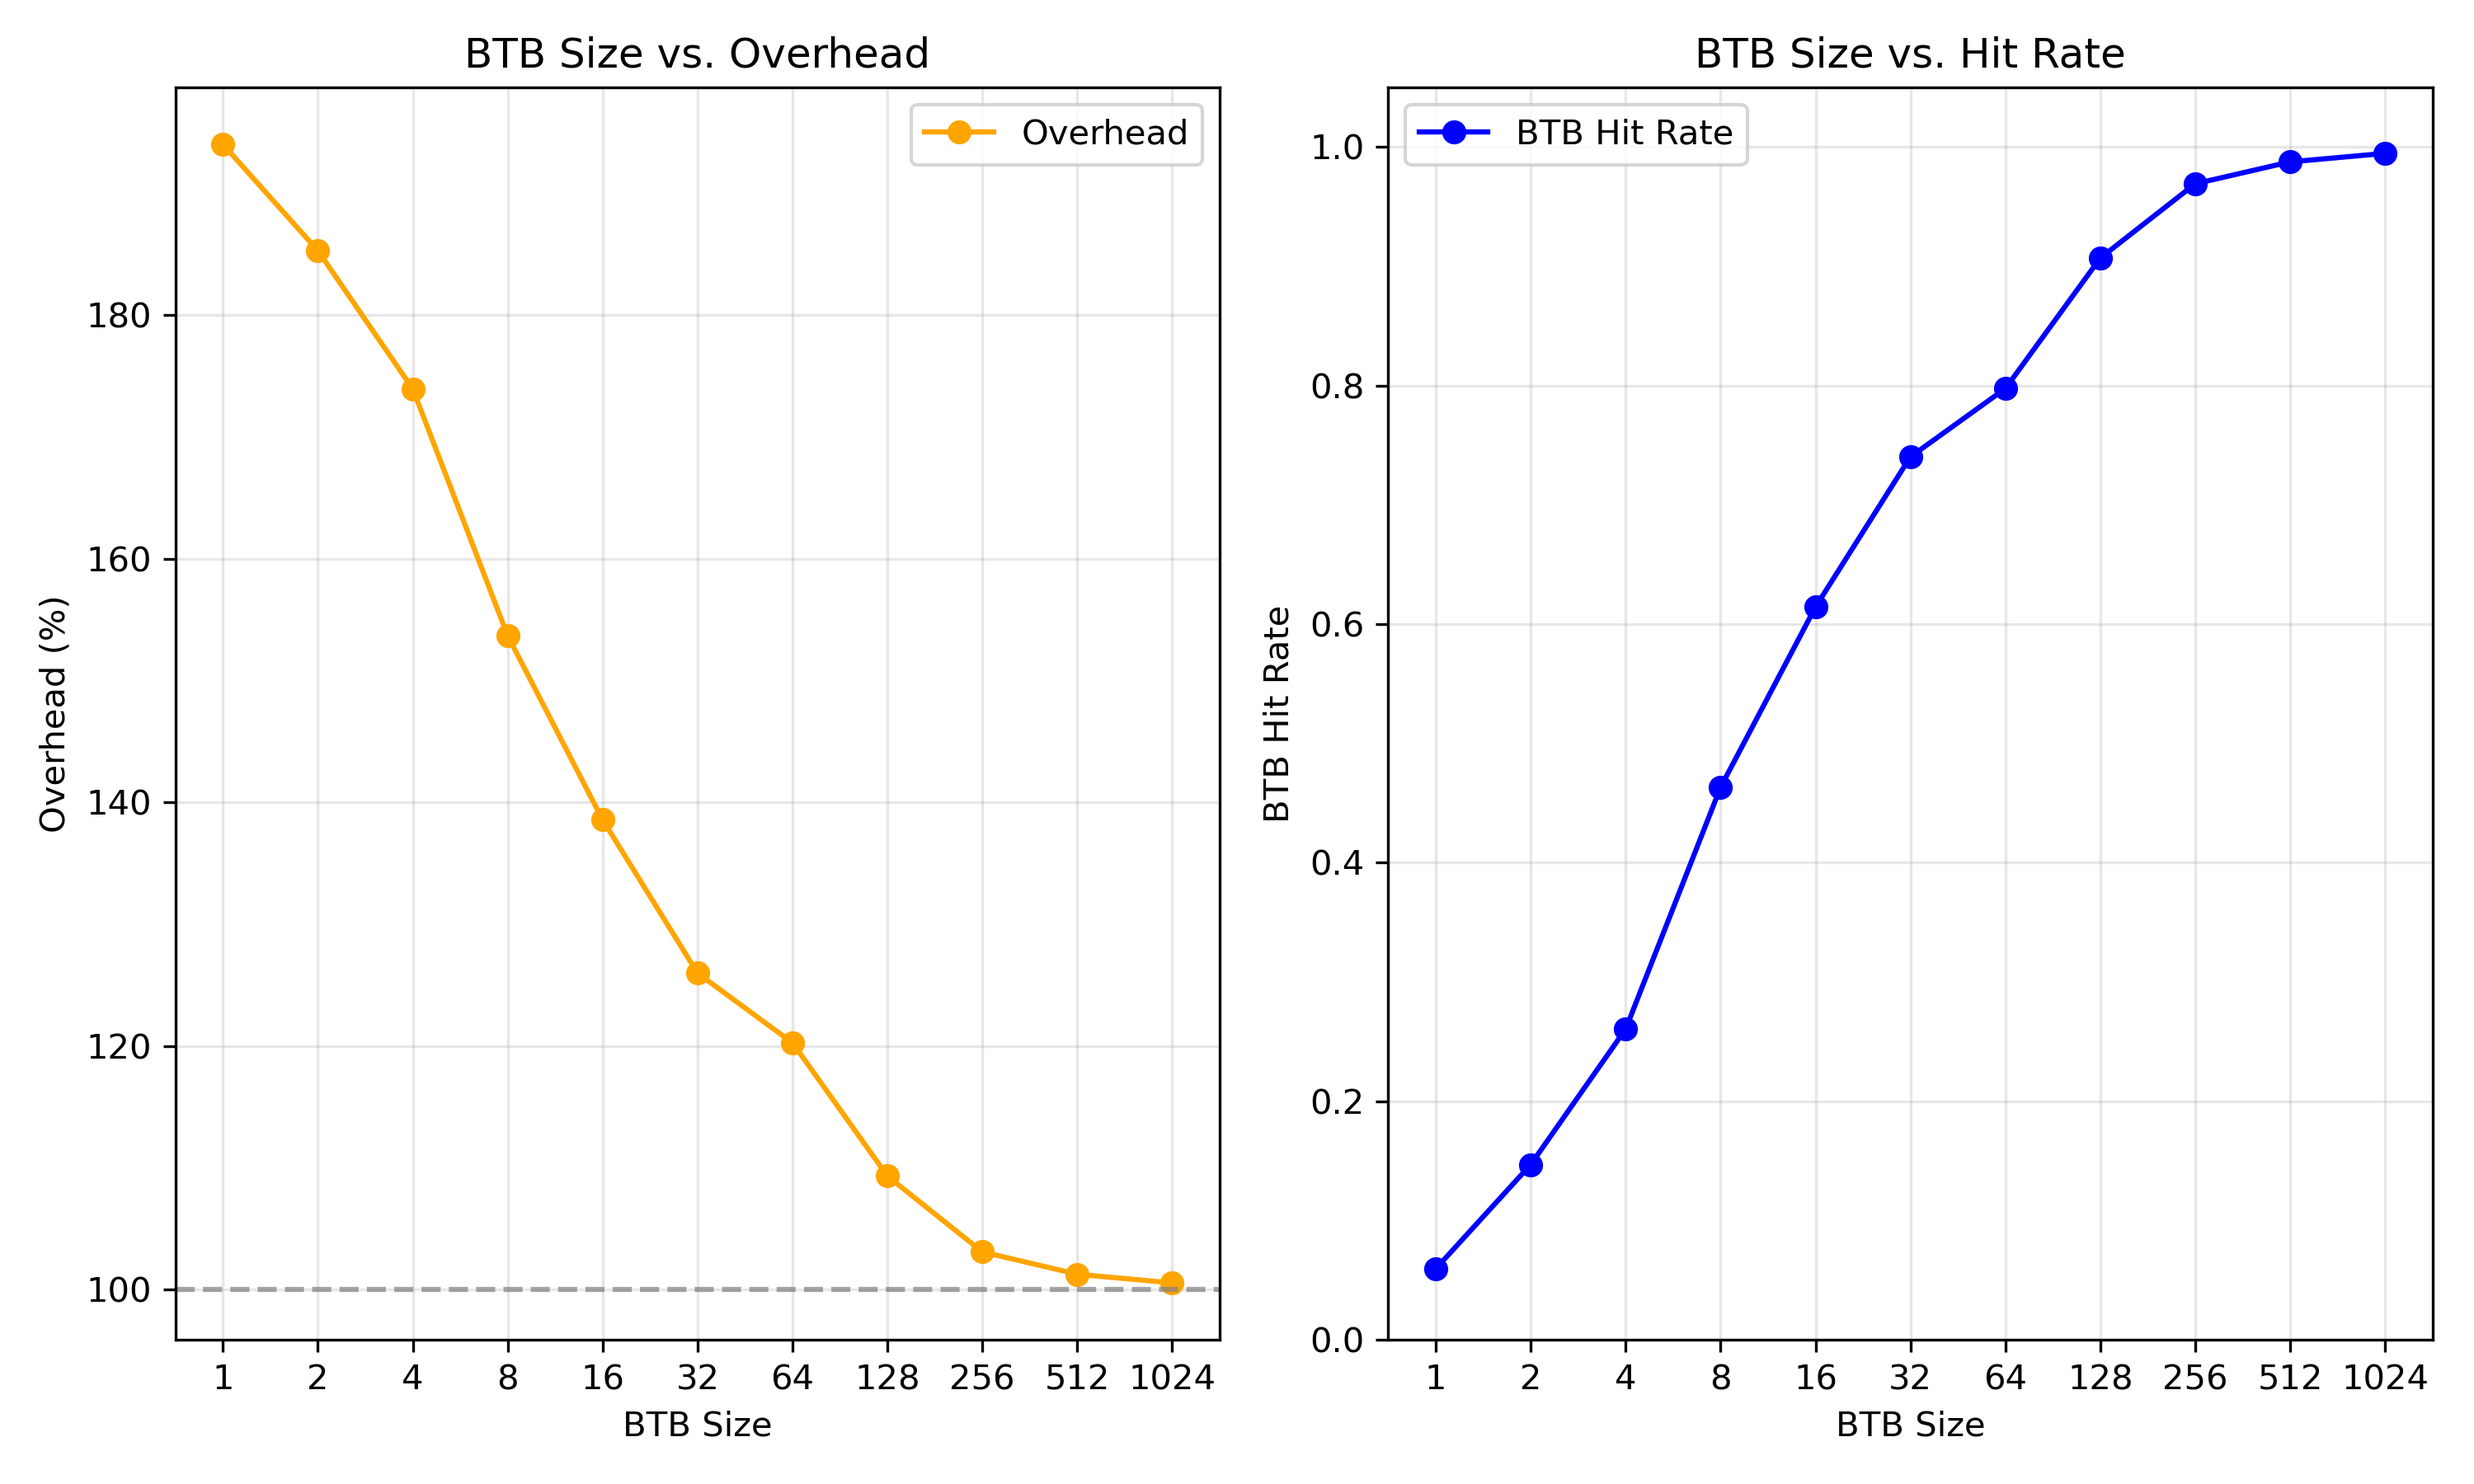
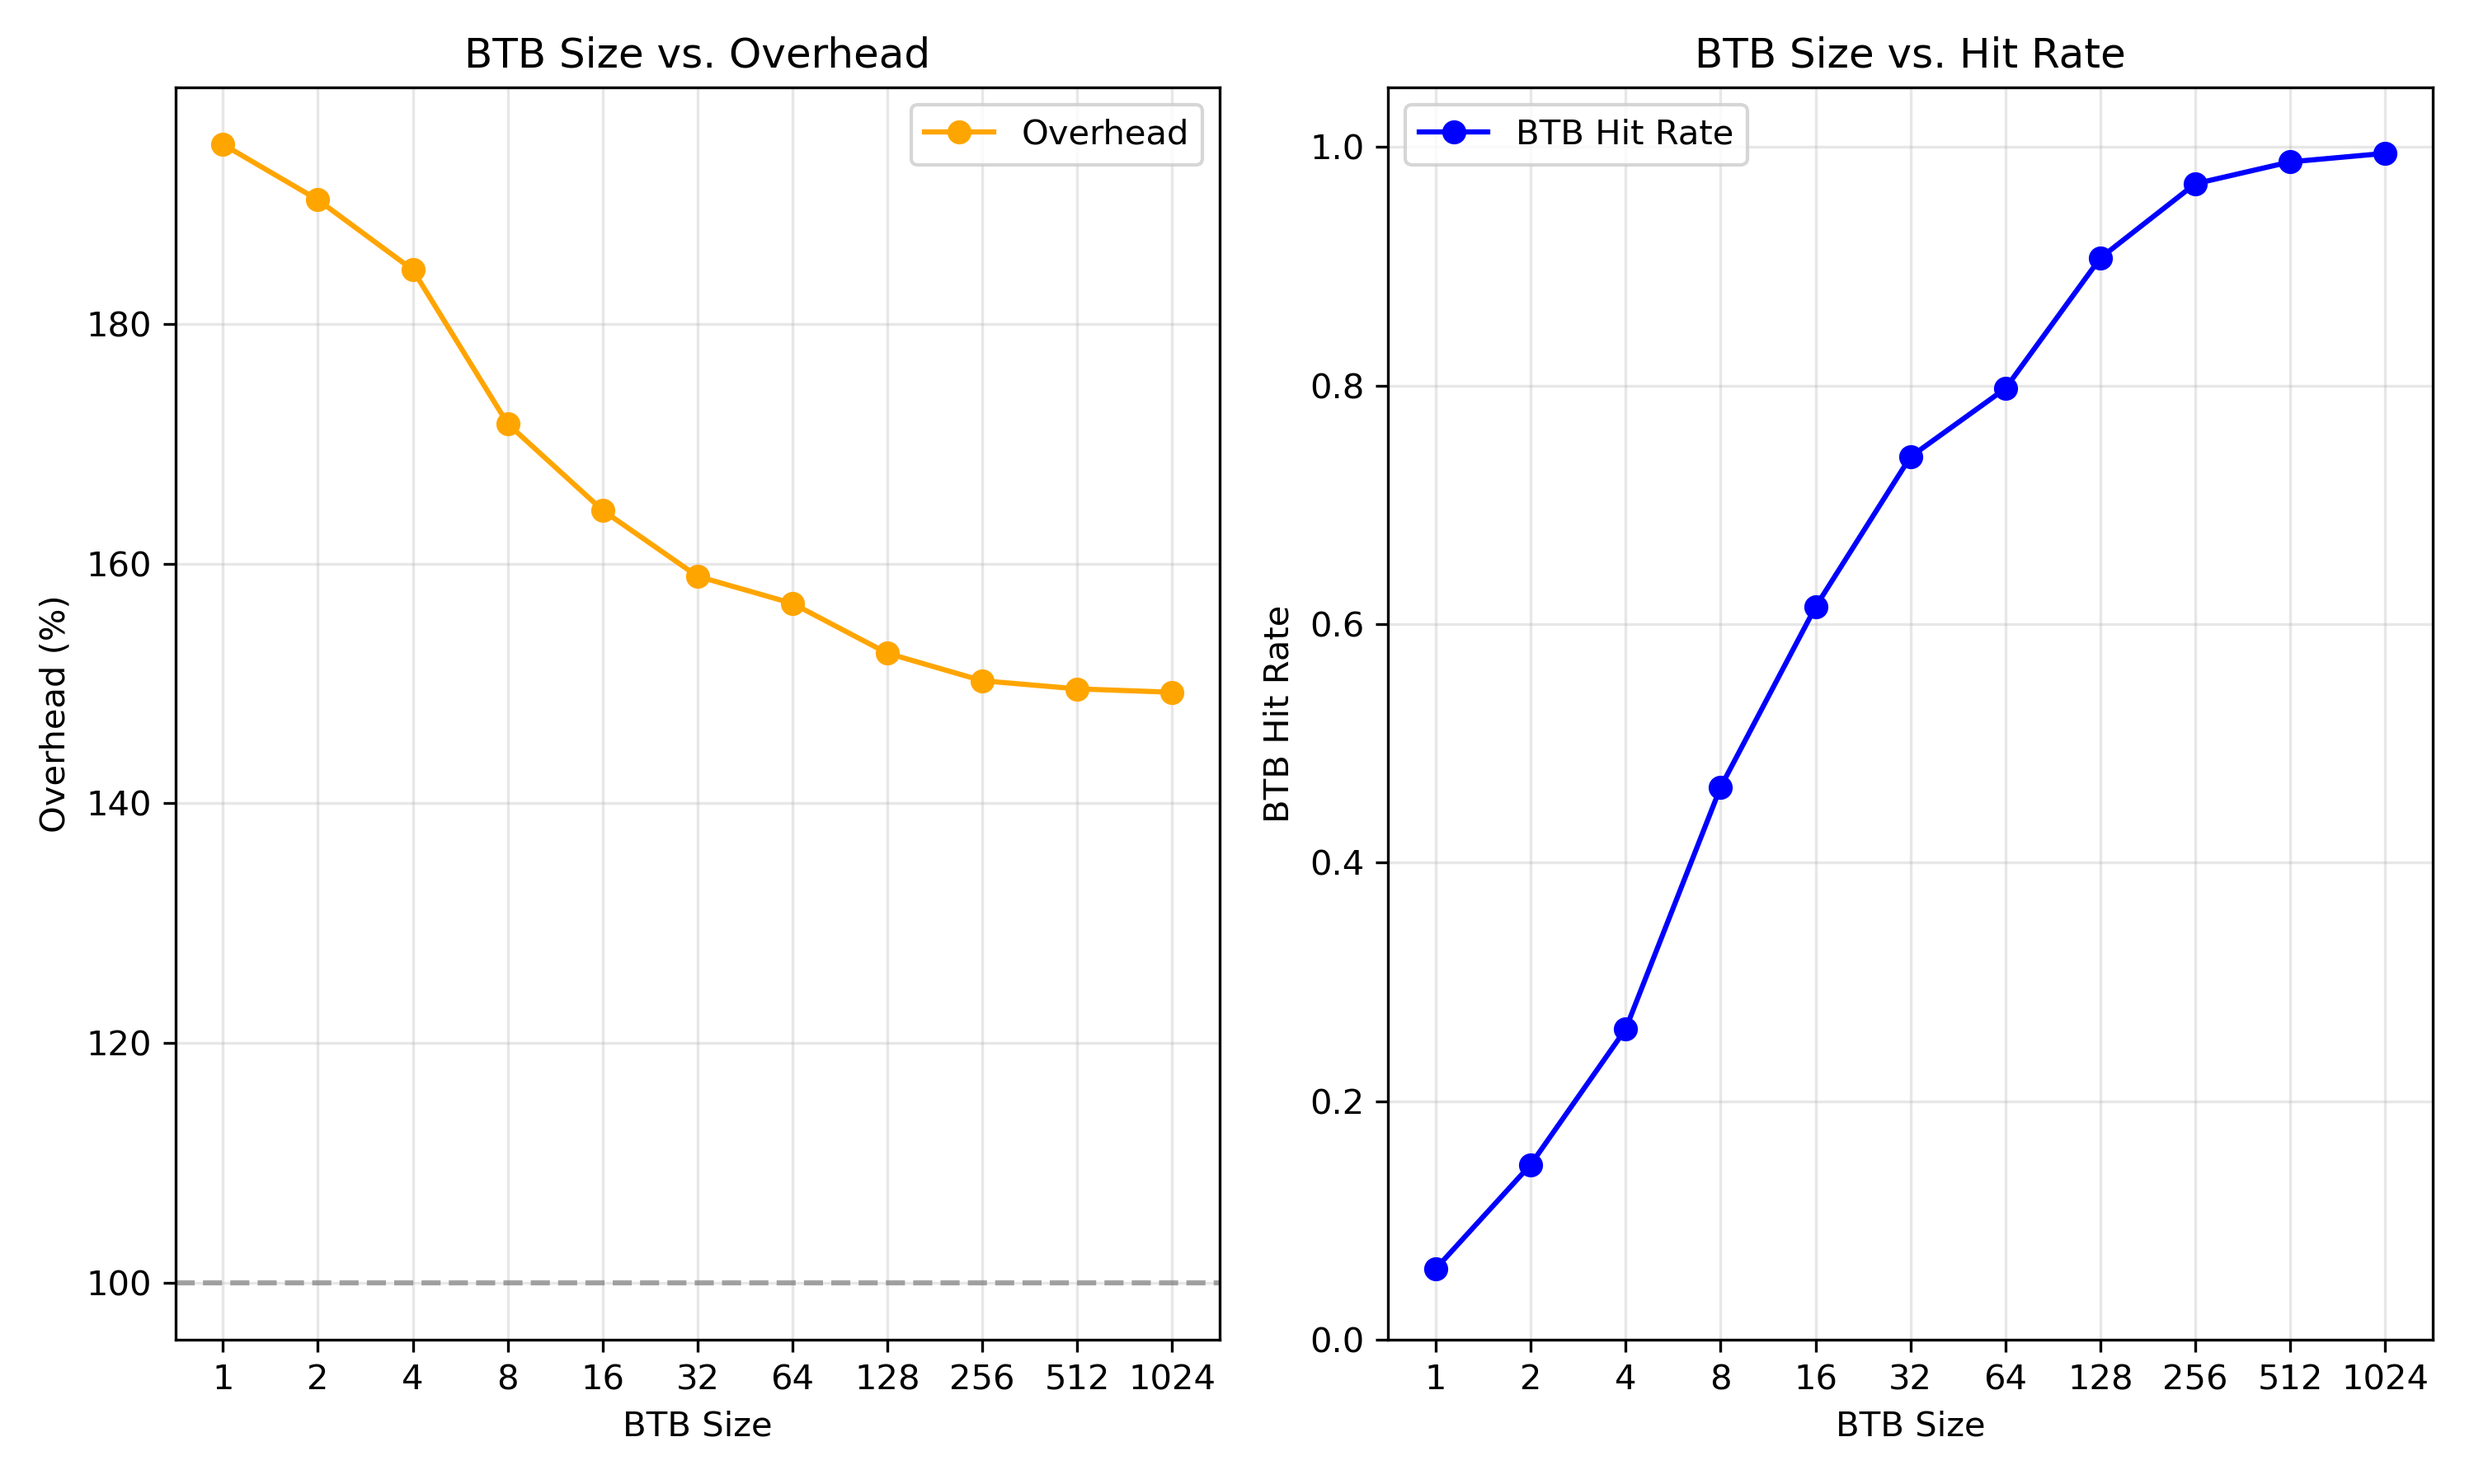
Fixed the accuracy calculation for branch prediction by adding appropriate overhead for predicting taken in cache but it was not taken. Added the overhead graph in the two layer branch prediction.

diff --git a/src/plot_btb_overheadTwoBit.py b/src/plot_btb_overheadTwoBit.py
@@ -5,16 +5,17 @@ import matplotlib.pyplot as plt
 import re
 import os
 
-# Some variables to be used
-SIMULATOR_PATH = "./branch_sim"
-TRACE_FILE_PATH = "../misc/block_profile"
-# Range of BTB sizes to test
-BTB_SIZES = [1, 2, 4, 8, 16, 32, 64, 128, 256, 512, 1024]
+# Path to your compiled C++ binary and the trace file
+SIMULATOR_PATH = "./branch_sim_TwoBit"  # Change this to your binary
+TRACE_FILE_PATH = "../misc/block_profile"  # Adjust if needed
 
+# Range of BTB sizes to test (same as before)
+BTB_SIZES = [1, 2, 4, 8, 16, 32, 64, 128, 256, 512, 1024]
 
 def run_simulation(btb_size):
     """Run the branch predictor with a specific BTB size and return the results."""
     try:
+        # Run the simulation with the given BTB size and trace file
         result = subprocess.run(
             [SIMULATOR_PATH, TRACE_FILE_PATH, str(btb_size)],
             capture_output=True,
@@ -40,9 +41,10 @@ def parse_results(output):
         mispredicted_btb_hits = int(re.search(r"BTB hits but direction mispredicted: (\d+)", output).group(1))
 
         # Assuming in this case that each btb miss will cause an additional miss
-        instructions_executed = total_instructions;
-        instructions_fetched = total_instructions + btb_misses + mispredicted_btb_hits;
+        instructions_executed = total_instructions
+        instructions_fetched = total_instructions + btb_misses + mispredicted_btb_hits
 
+        # Calculate overhead (instructions fetched / instructions executed)
         overhead = instructions_fetched / instructions_executed if instructions_executed > 0 else 0
 
         return {
@@ -76,7 +78,7 @@ def main():
 
     # Extract data for plotting
     btb_sizes = [r["btb_size"] for r in results]
-    overheads = [r["overhead"] * 100 for r in results] # convert to percentage
+    overheads = [r["overhead"] * 100 for r in results]  # Convert to percentage
     hit_rates = [r["btb_hit_rate"] for r in results]
 
     # Create the plot
@@ -85,16 +87,14 @@ def main():
     # Plot overhead vs BTB size
     plt.subplot(1, 2, 1)
     plt.plot(btb_sizes, overheads, 'o-', color='orange', label='Overhead')
-    plt.axhline(y=100, color='gray', linestyle='--', alpha=0.7) # 100% line
+    plt.axhline(y=100, color='gray', linestyle='--', alpha=0.7)  # 100% line
     plt.xlabel('BTB Size')
-    plt.ylabel('Overhead (%)') # Updated label
+    plt.ylabel('Overhead (%)')
     plt.title('BTB Size vs. Overhead')
     plt.grid(True, alpha=0.3)
     plt.xscale('log', base=2)  # Log scale makes it easier to see the pattern
     plt.xticks(btb_sizes, [str(s) for s in btb_sizes])
     plt.legend()
-
-    # For curiousity also plotting the relationship between hit rate and btb size
 
     # Plot hit rate vs BTB size
     plt.subplot(1, 2, 2)
@@ -108,8 +108,9 @@ def main():
     plt.ylim(0, 1.05)
     plt.legend()
 
+    # Layout and saving the plot
     plt.tight_layout()
-    plt.savefig('../misc/btb_size_vs_overhead.png', dpi=300)
+    plt.savefig('../misc/btb_size_vs_overheadTwoBit.png', dpi=300)
     print(f"Plot saved as 'btb_size_vs_overhead.png'")
     plt.show()
 

diff --git a/src/BranchPredictor.cpp b/src/BranchPredictor.cpp
@@ -12,7 +12,8 @@
 
 
 BranchPredictor::BranchPredictor(int btbSize)
-  : btb(new BranchTargetBuffer(btbSize)), btbHits(0), btbMisses(0), predictionHits(0), predictionMisses(0) {}
+  : btb(new BranchTargetBuffer(btbSize)), btbHits(0), btbMisses(0),
+  predictionHits(0), predictionMisses(0), btbHitButMispredicted(0){}
 
 
 BranchPredictor::~BranchPredictor() {
@@ -63,26 +64,36 @@ void BranchPredictor::simulateTrace(const std::string &traceFilename) {
 
         int predictedTarget = predictTargetAddress(instr.sourceAddr);
 
-        if (predictedTarget == -1){
-            btbMisses++;
-        } else {
+        bool inBTB = (predictedTarget != -1);
+
+        if (inBTB){
             btbHits++;
+        } else {
+            btbMisses++;
         }
 
         bool taken = predictTaken(instr.type, instr.direction);
 
         // Debugging
+        /*
         std::cout << "Debug line "  << ": Type=" << instr.type
                  << ", Direction=" << instr.direction
                  << ", Addr=" << std::hex << instr.sourceAddr
                  << " to " << instr.targetAddr << std::dec
                  << ", Taken=" << instr.taken
                  << std::endl;
+        */
 
         if (taken == instr.taken){
             predictionHits++;
         } else {
             predictionMisses++;
+
+            // If we mispredict and our value that is additional overhead
+            if (inBTB){
+                btbHitButMispredicted++;
+            }
+
         }
 
         update(instr.sourceAddr, instr.targetAddr);
@@ -104,6 +115,7 @@ void BranchPredictor::printStats() const {
     std::cout << "Direction prediction hits: " << predictionHits << std::endl;
     std::cout << "Direction prediction misses: " << predictionMisses << std::endl;
     std::cout << "Direction prediction accuracy: " << predictionAccuracy << "%" << std::endl;
+    std::cout << "BTB hits but direction mispredicted: " << btbHitButMispredicted << std::endl;
     std::cout << std::endl;
     std::cout << "BTB hits: " << btbHits << std::endl;
     std::cout << "BTB misses: " << btbMisses << std::endl;

diff --git a/src/TwoBitBranchPredictor.cpp b/src/TwoBitBranchPredictor.cpp
@@ -8,7 +8,7 @@ TwoBitBranchPredictor::TwoBitBranchPredictor(int btbSize)
       stateTableSize(btbSize),
       btbHits(0), btbMisses(0),
       staticPredictionHits(0), staticPredictionMisses(0),
-      dynamicPredictionHits(0), dynamicPredictionMisses(0) {
+      dynamicPredictionHits(0), dynamicPredictionMisses(0), btbHitButMispredicted(0) {
 
     // Initialize state table with default WEAKLY_TAKEN state
     stateTable = new PredictionState[stateTableSize];
@@ -77,15 +77,18 @@ void TwoBitBranchPredictor::simulateTrace(const std::string& traceFilename) {
     TraceReader reader(traceFilename);
     std::vector<Instruction> instructions = reader.readTrace();
 
-    std::cout << "Simulating: " << instructions.size() << " instructions..." << std::endl;
+   /* std::cout << "Simulating: " << instructions.size() << " instructions..." << std::endl;*/
 
     for (const auto& instr : instructions) {
         // BTB prediction
         int predictedTarget = predictTargetAddress(instr.sourceAddr);
-        if (predictedTarget == -1) {
-            btbMisses++;
-        } else {
+
+        bool inBTB = (predictedTarget != -1);
+
+        if (inBTB) {
             btbHits++;
+        } else {
+            btbMisses++;
         }
 
         // Static prediction
@@ -102,6 +105,9 @@ void TwoBitBranchPredictor::simulateTrace(const std::string& traceFilename) {
             dynamicPredictionHits++;
         } else {
             dynamicPredictionMisses++;
+            if (inBTB){
+                btbHitButMispredicted++;
+            }
         }
 
         // Update state and BTB
@@ -152,6 +158,7 @@ void TwoBitBranchPredictor::printStats() const {
     std::cout << "--------------" << std::endl;
     std::cout << "BTB hits: " << btbHits << std::endl;
     std::cout << "BTB misses: " << btbMisses << std::endl;
+    std::cout << "BTB hits but direction mispredicted: " << btbHitButMispredicted << std::endl;
     std::cout << "BTB hit rate: " << std::fixed << std::setprecision(2)
               << btbAccuracy << "%" << std::endl;
 }

diff --git a/src/twobit_visualise_results.py b/src/twobit_visualise_results.py
@@ -122,7 +122,7 @@ def main():
     plt.tight_layout()
 
     # Save figure
-    plt.savefig('../misc/branch_prediction_comparison.png', dpi=300)
+    plt.savefig('../misc/branch_predictionTwoBit_comparison.png', dpi=300)
     print("Plot saved as 'branch_prediction_comparison.png'")
 
     plt.show()

diff --git a/include/TwoBitBranchPredictor.h b/include/TwoBitBranchPredictor.h
@@ -25,6 +25,7 @@ private:
     // Statistics
     int btbHits;
     int btbMisses;
+    int btbHitButMispredicted;
     int staticPredictionHits;
     int staticPredictionMisses;
     int dynamicPredictionHits;

diff --git a/include/BranchPredictor.h b/include/BranchPredictor.h
@@ -13,6 +13,8 @@ private:
     int btbMisses;
     int predictionHits;
     int predictionMisses;
+    int btbHitButMispredicted;
+
 
 public:
     BranchPredictor(int btbSize);
